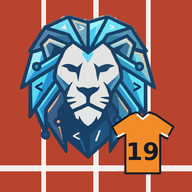
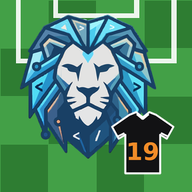
Ikona Torpedo 19: czarna koszulka, pole karne

diff --git a/index.html b/index.html
@@ -71,7 +71,7 @@
         </article>
 
         <article class="card">
-          <img class="ico" src="assets/ikona-torpedo.png?v=2" alt="" width="96" height="96">
+          <img class="ico" src="assets/ikona-torpedo.png?v=3" alt="" width="96" height="96">
           <div>
             <h3>Torpedo 19</h3>
             <p class="tag">Dla młodych sportowców</p>
